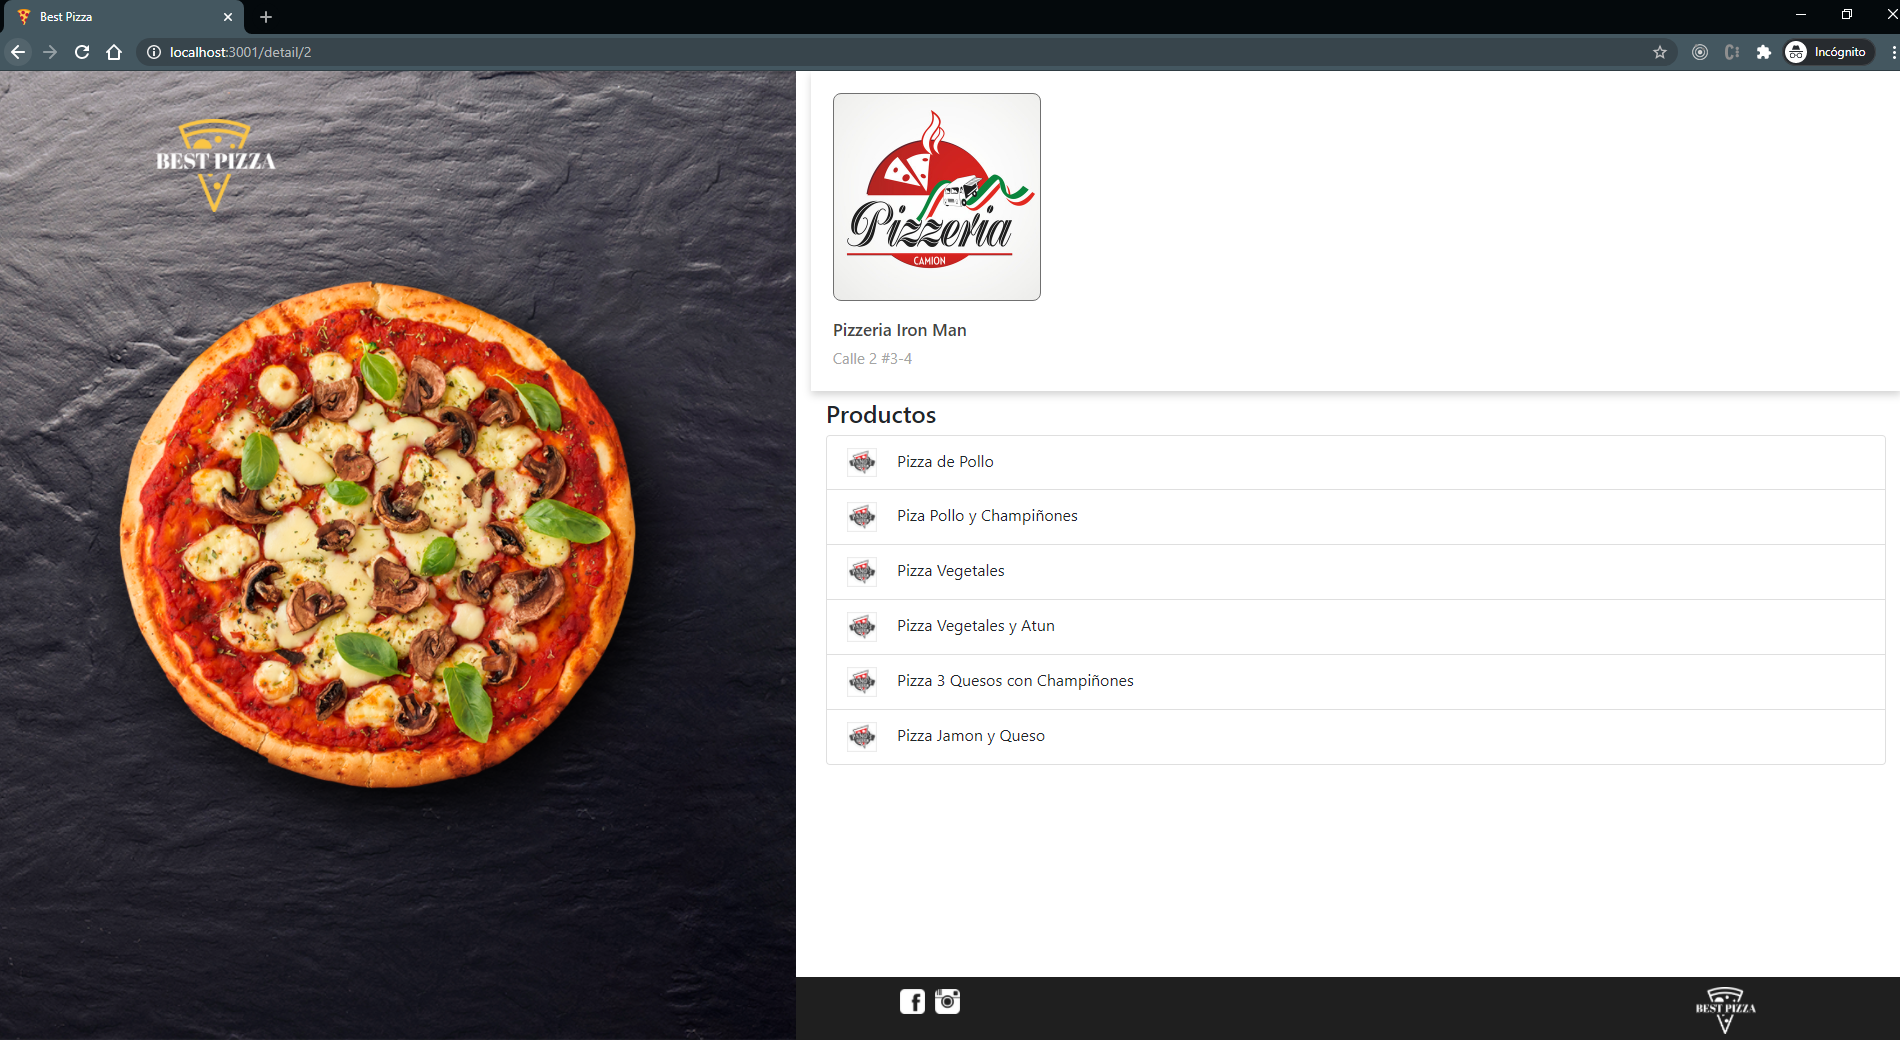
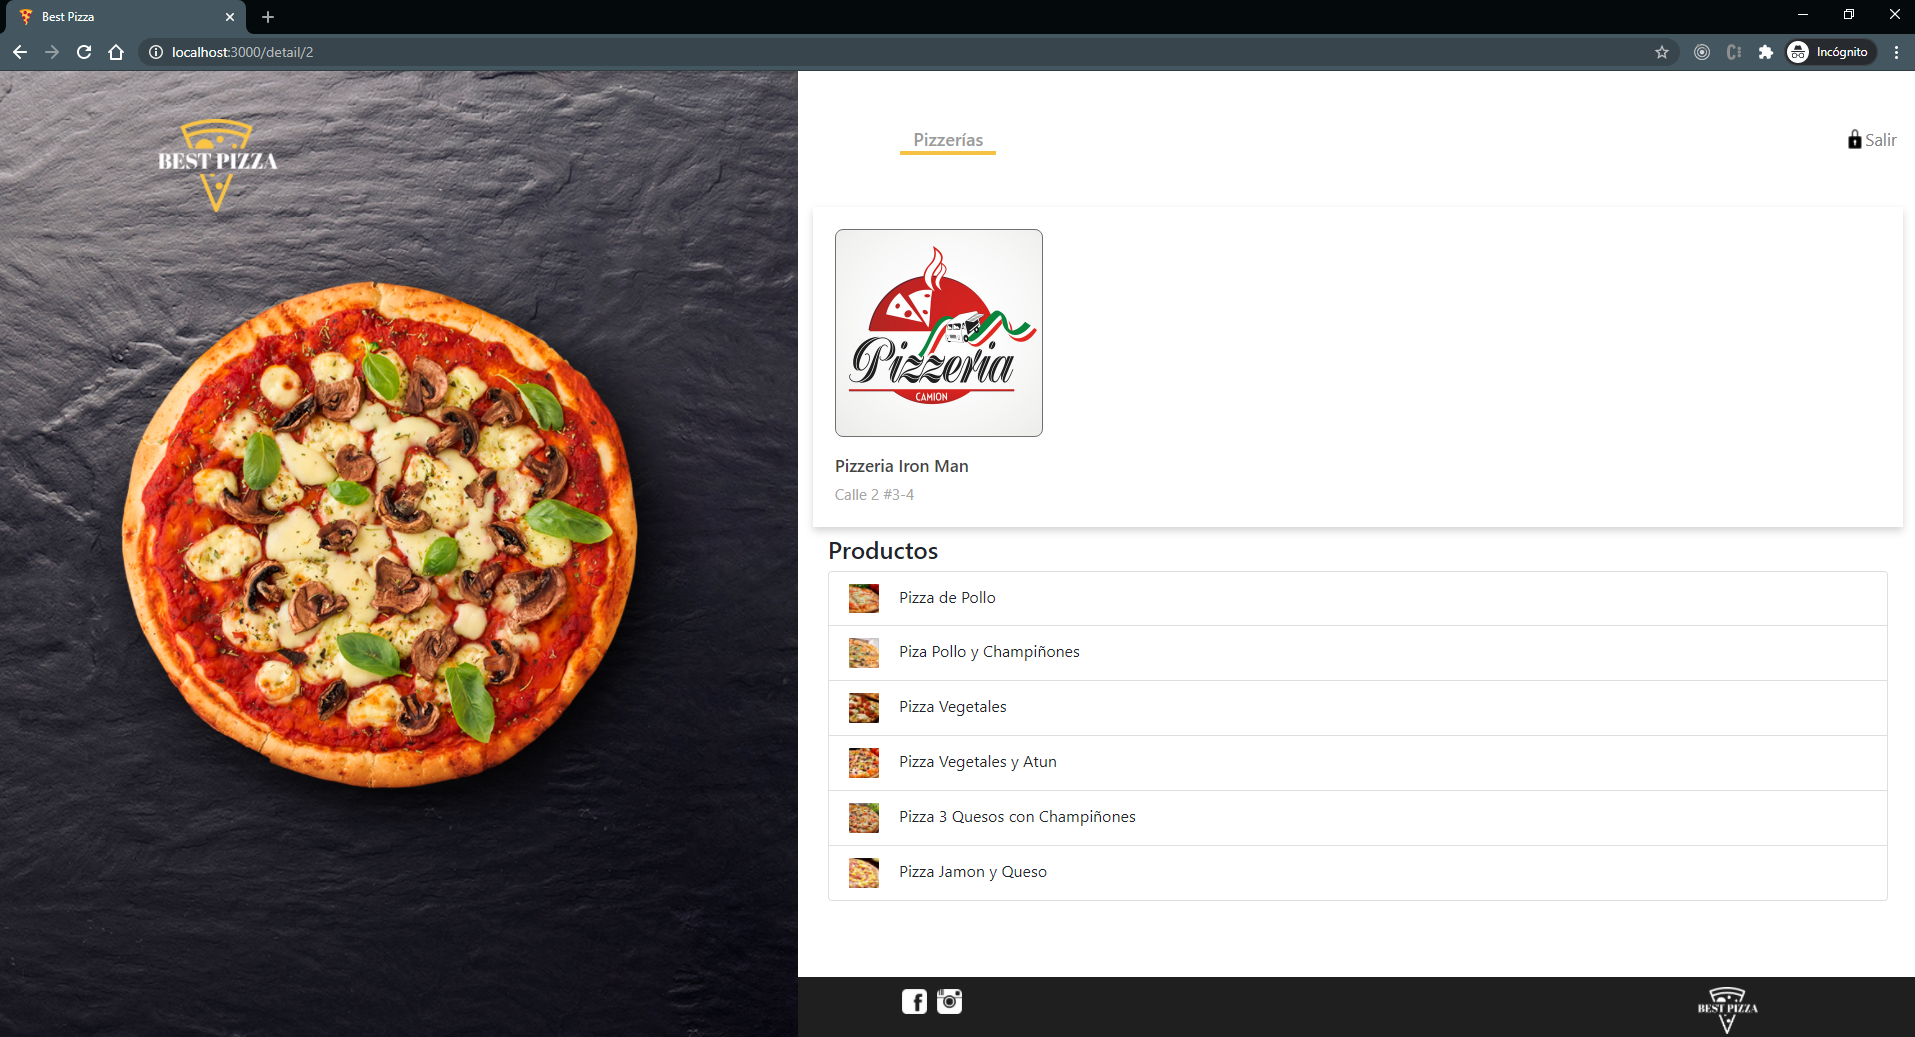
Renderizado Condicional de imagenes en vista de detalle

diff --git a/src/pages/StoreDetail.js b/src/pages/StoreDetail.js
@@ -1,10 +1,15 @@
 import React, { useContext } from "react";
 import Context from "../Context";
 import { Store } from "../components/Store";
-import { Redirect } from "react-router-dom";
-import panosPizza from "../assets/images/Panos_pizza.png";
-import "../styles/StoreDetail.scss";
 import { Header } from "../components/Header";
+import { Redirect } from "react-router-dom";
+import "../styles/StoreDetail.scss";
+import panos from "../assets/images/panos_pizza_1.png";
+import trulli from "../assets/images/trulli_pizza.png";
+import stroller from "../assets/images/stroller_pizza_1.png";
+import sbarro from "../assets/images/sbarro_pizza.png";
+import camion from "../assets/images/pizzeria_camion_pizza.png";
+import vogliadipizza from "../assets/images/vogliadipizza_pizza.png";
 
 export const StoreDetail = ({ location }) => {
   const id = location.pathname.substring(
@@ -32,11 +37,28 @@ export const StoreDetail = ({ location }) => {
         <ul className="list-group">
           {storeDetail.products.map((product) => (
             <li key={product.id} className="list-group-item">
-              <img
-                src={panosPizza}
-                alt="Under the Dome"
-                className="product__image"
-              />
+              {product.name === "Pizza de Pollo" && (
+                <img src={panos} alt="panos" className="product__image" />
+              )}
+              {product.name === "Piza Pollo y Champiñones" && (
+                <img src={trulli} alt="trulli" className="product__image" />
+              )}
+              {product.name === "Pizza Vegetales" && (
+                <img src={stroller} alt="stroller" className="product__image" />
+              )}
+              {product.name === "Pizza Vegetales y Atun " && (
+                <img src={sbarro} alt="sbarro" className="product__image" />
+              )}
+              {product.name === "Pizza 3 Quesos con Champiñones" && (
+                <img src={camion} alt="camion" className="product__image" />
+              )}
+              {product.name === "Pizza Jamon y Queso" && (
+                <img
+                  src={vogliadipizza}
+                  alt="vogliadipizza"
+                  className="product__image"
+                />
+              )}
               {product.name}
             </li>
           ))}
